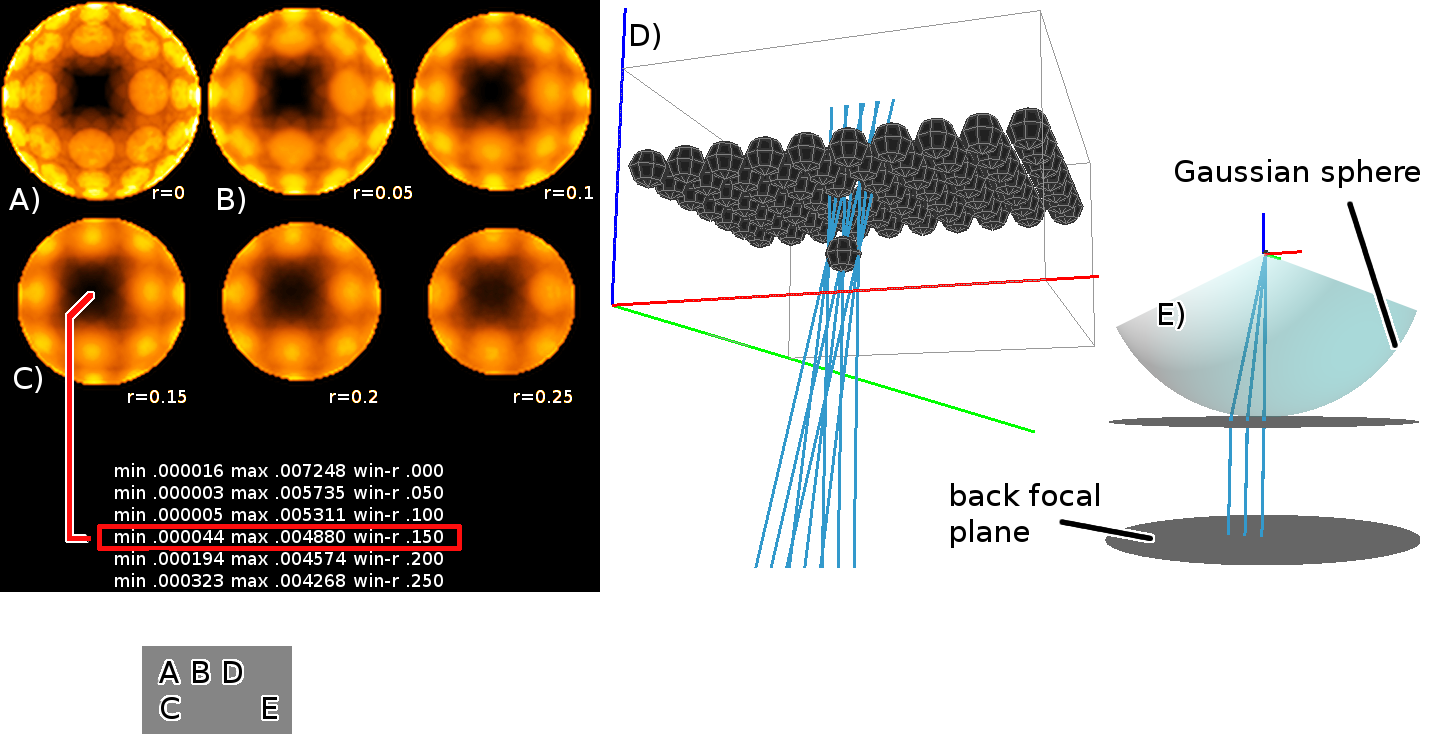
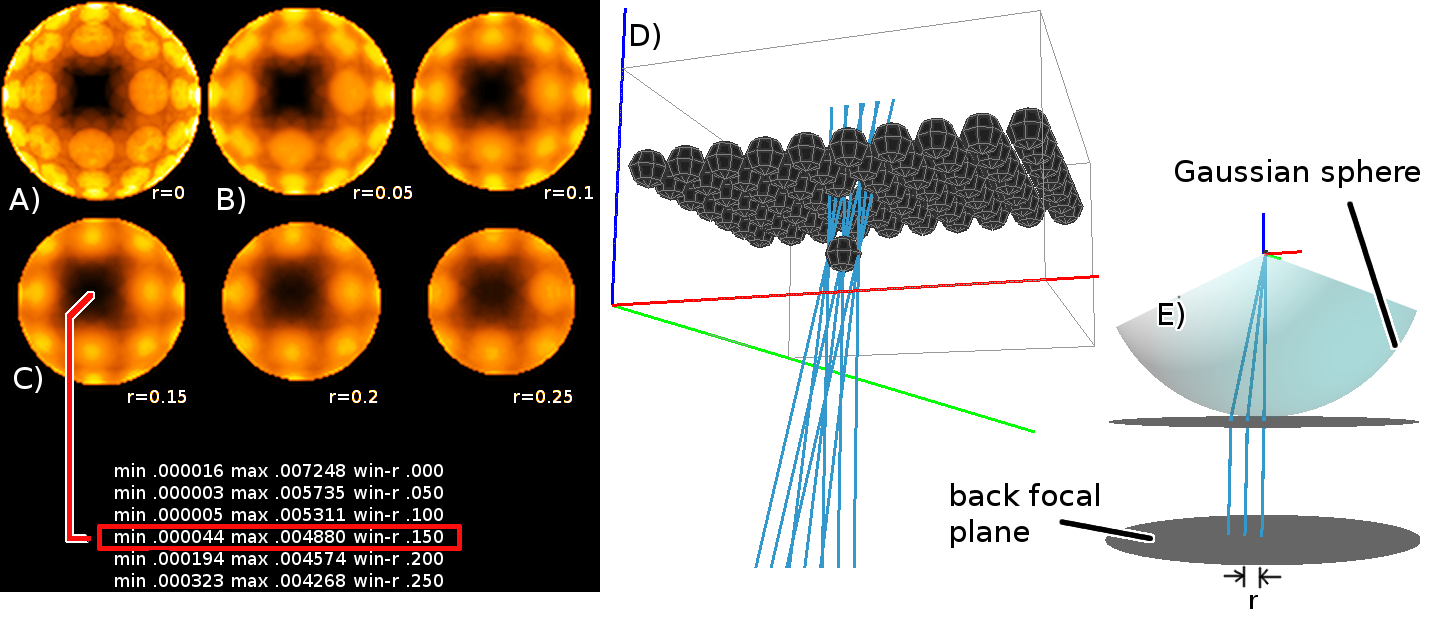
change testsample..big_label

diff --git a/setup.tex b/setup.tex
@@ -620,35 +620,39 @@ Here one step of the optimization --- the computation of the intensity
 distribution in the sample depending on the two SLM patterns ---
 involves a few tens to hundred three-dimensional Fourier transforms.
 
-A full optimization can quite certainly not be done in a reasonable
-time on todays computers.
+A full wave optics-based optimization can quite certainly not be done
+in a reasonable time on todays computers. Therefore we decided to use
+the ray optics-based approach, which we will describe in the following
+sections.
 
-\subsection{Sphere model}
+\subsection{Sphere model to represent the sample}
 \label{sec:shadow-map}
-One obvious simplification is to not represent the sample as a
-three-dimensional grid of measured data.  One useful model are
-spheres. In order to represent a \emph{C.~elegans} embryo it is not
-necessary to store $300\times 300\times 30$ gray values. Instead one
-can just use a few tens of spheres, defined by their center
-coordinates and a diameter.
+Even with ray optics, it seems unreasonably compute intensive, to
+represent the sample as a three-dimensional grid of measured data.
 
-Of course the sphere model is rather crude, e.g.\ it does not describe
-the precise shape of a nucleus during division. In the case of a
-developing embryo, it is useful to predict one or two minutes into the
-future.
+Rather than calculating on $300\times 300\times 30$ gray values which
+contain the fluorophores is one \emph{C.~elegans} embryo, we decided
+to model the sample as a set of spheres.  Then a few tens of spheres,
+defined by their center coordinates and a diameter describe the
+sample.
+
+Of course the sphere model is rather crude and it does not describe
+the precise shape of a nucleus during division. For a first prototype
+more precision does not seem necessary. 
 
 \figref{fig:render} shows a model of a \emph{C.~elegans} embryo,
 constructed from three-dimensional data of a confocal microscope. The
 nuclei are relatively sparse. In order to illuminate one or a few
 nuclei we might be able to find a path for the excitation light that
-doesn't intersect out-of-focus nuclei --- or at least avoids them. In
-our spatio-angular microscope the illumination pattern is represented
-by two masks. One for the LCoS and another one for the MMA. In the
-following we will construct a ray optics-based algorithm to find such
-optimized illumination patterns. For example the red rectangle (with
-$\sim\unit[4]{\mu m}$ on the side) would be selected for illumination
-with the LCoS. The red cylinder indicates the angle that would be
-least obscured by out-of-focus nuclei.
+does not intersect out-of-focus nuclei --- or at least avoids them. 
+
+For example the red rectangle (with $\sim\unit[4]{\mu m}$ on the side)
+would be selected for illumination with the LCoS. The red cylinder
+indicates the angle that would be least obscured by out-of-focus
+nuclei.
+
+In the following we will construct a ray optics-based algorithm to
+find optimized illumination patterns.
 
 \imagw{6cm}{render}{Rendering of a sphere model, fitted to one time
   frame of a three-dimensional confocal video of a developing
@@ -658,10 +662,12 @@ least obscured by out-of-focus nuclei.
 
 \subsection{Index-matched tracing in illumination direction}
 \imagw{12cm}{scan-mosaic_testsample_n100_3_7_5_big_label}{Test case
-  for spatio-angular illumination. A target sphere is moved out of a
-  layer of spheres. {\bf (a-c)} Rays from the back focal plane are
-  traced through the target sphere and the total intersection length
-  with out-of-focus spheres is plotted in the diagrams.}
+  for spatio-angular illumination.  {\bf (A-C)} Rays from the back
+  focal plane are traced through the target sphere and the total
+  intersection length with out-of-focus spheres is plotted in the
+  diagrams.  {\bf D)} The target sphere is moved out of a layer of
+  spheres. {\bf E)} Rays start from a circular window with radius $r$
+  in the back focal plane of the objective.}
 
 First we assume the beads are embedded in index matched medium. Then
 rays only refract at the Gaussian sphere of the objective lens and it
